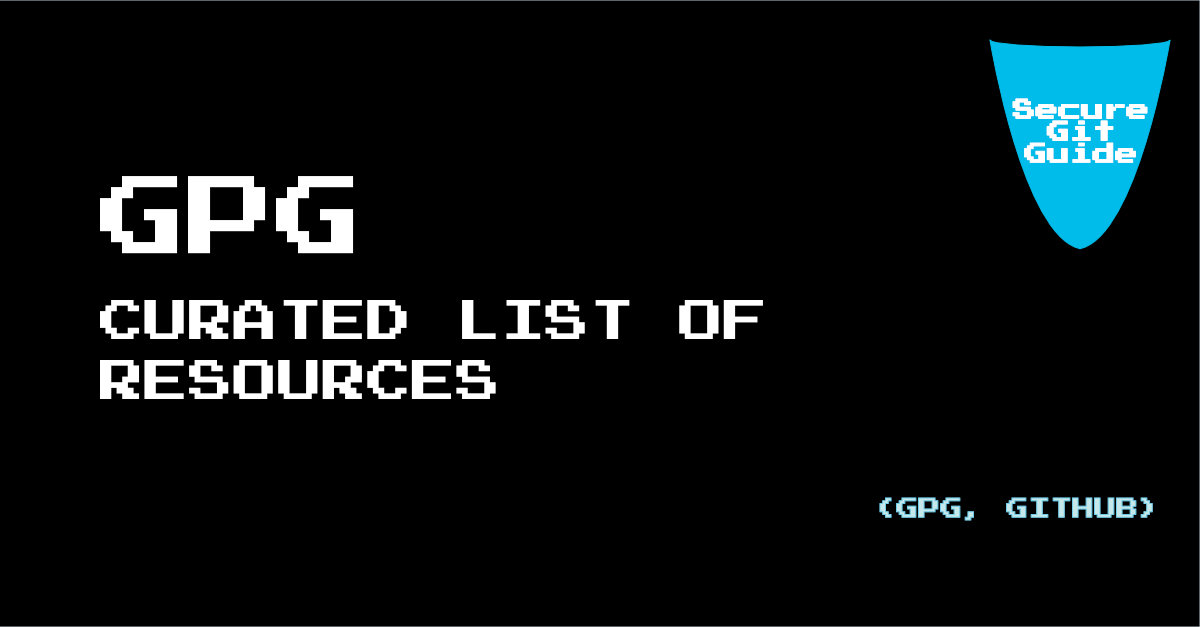
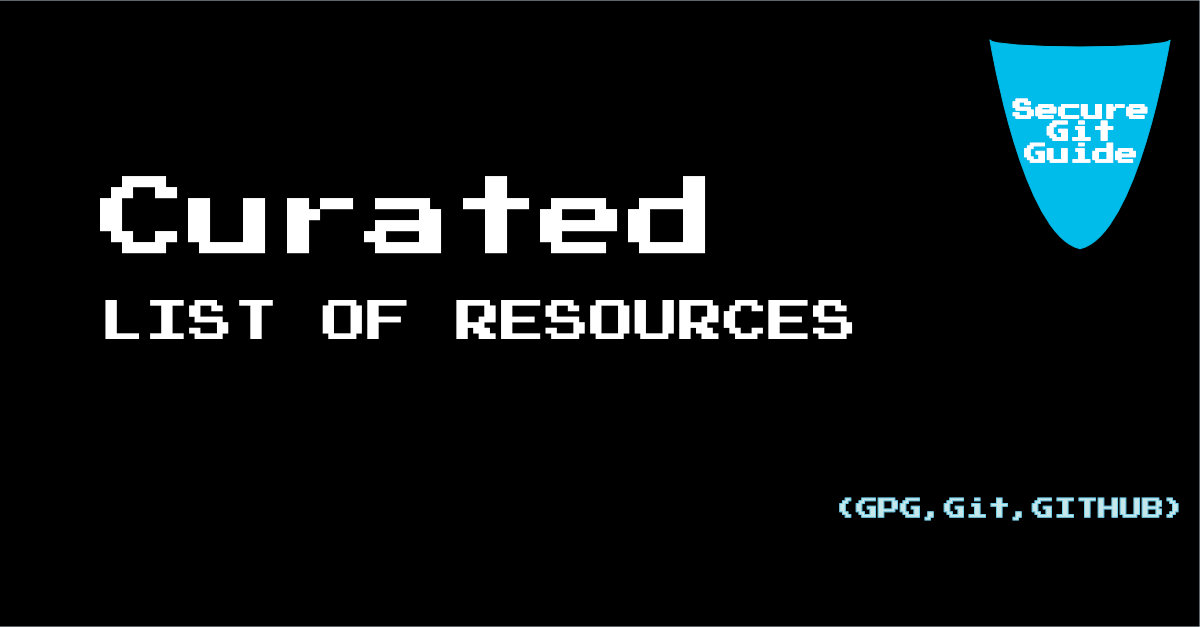
Type: Documentation
Added new resource sections and updated the article name for curated resources list.

diff --git a/docs/007_Curated-List-of-Resources.md b/docs/007_Curated-List-of-Resources.md
@@ -1,0 +1,105 @@
+# Curated List of Resources
+
+![HEADER IMAGE](./media/HEADER/GitHub-Repo-SecureGitGuide-ART-007.jpg)
+
+Index:
+
+- [GPG](#gpg)
+- [Git](#git)
+- [GitHub](#github)
+
+---
+
+## GPG
+
+---
+
+### Downloads & Installation (GPG)
+
+- <https://gnupg.org/>
+- <https://gpg4win.org/>
+- <https://linuxhint.com/gpg-command-ubuntu/>
+
+### Uses (GPG)
+
+- Git -- <https://docs.github.com/en/authentication/managing-commit-signature-verification/signing-commits>
+- GitHub -- <https://git-scm.com/book/en/v2/Git-Tools-Signing-Your-Work>
+- Email and other uses -- <https://www.openpgp.org/>
+- Various -- <https://gnupg.org/software/frontends.html>
+
+### Best Practices (GPG)
+
+- <https://github.com/josecelano/pygithub/blob/main/docs/how_to_create_a_subkey_for_signing.md>
+
+### Definition (GPG)
+
+- <https://en.wikipedia.org/wiki/GNU_Privacy_Guard>
+
+### Good Articles (GPG)
+
+- <https://blog.ghostinthemachines.com/2015/03/01/how-to-use-gpg-command-line/>
+
+---
+
+## Git
+
+---
+
+### Downloads & Installation (Git)
+
+- Official Site - <https://git-scm.com/downloads>
+
+### Best Practices (Git)
+
+- [7 Git Best Practices to Start using in your next Commit](https://sourcelevel.io/blog/7-git-best-practices-to-start-using-in-your-next-commit)
+
+### Definition (Git)
+
+- <https://en.wikipedia.org/wiki/Git>
+
+### Great Resource (Git)
+
+- [Git Magic Resource](http://www-cs-students.stanford.edu/~blynn/gitmagic/) (Very extensive and documented)  covers Git to some extent and focuses GitHub
+- [Awesome List of resources for Git and Github](https://project-awesome.org/phillipadsmith/awesome-github)
+
+### Books (Git)
+
+- [Official Git Pro eBook (free)](https://git-scm.com/book/en/v2)
+- [Git](https://www.amazon.com/-/en/Richard-Silverman/dp/1449325866/ref=sr_1_25?__mk_es_US=%C3%85M%C3%85%C5%BD%C3%95%C3%91&crid=WONZH23LUI7&keywords=github&qid=1655454291&sprefix=githu%2Caps%2C192&sr=8-25)
+
+---
+
+## GitHub
+
+---
+
+### Downloads & Installation (GitHub)
+
+GitHub is an online platform service so that in essence you do not need to install anything to start using it.
+
+- Official Online Site - <https://github.com/>
+
+- [GitHub Documentation](https://docs.github.com/en)
+
+### Best Practices (GitHub)
+
+- Good starter - [GitHub Best Practices (NC State)](https://docs.github.ncsu.edu/github-best-practices/)
+
+- [10 GitHub Best Practices](https://medium.com/datreeio/top-10-github-best-practices-for-developers-d6309a613227)
+
+- Some important concepts - [Best Practices for GitHub Repositories](https://www.codecademy.com/learn/paths/web-development/tracks/learn-git/modules/best-practices-for-teams-on-github/cheatsheet)
+
+### Definition (GitHub)
+
+- <https://en.wikipedia.org/wiki/GitHub>
+
+### Great Resource (GitHub)
+
+- [Git Magic Resource](http://www-cs-students.stanford.edu/~blynn/gitmagic/) (Very extensive and documented)  covers Git to some extent and focuses GitHub
+- [Awesome List of resources for Git and Github](https://project-awesome.org/phillipadsmith/awesome-github)
+
+### Books
+
+- [Git Essentials](https://www.amazon.com/GitHub-Essentials-collaborative-development-workflows/dp/1789138337/ref=sr_1_19?__mk_es_US=%C3%85M%C3%85%C5%BD%C3%95%C3%91&crid=WONZH23LUI7&keywords=github&qid=1655454439&sprefix=githu%2Caps%2C192&sr=8-19)
+
+[Back to home](./index.md)

diff --git a/docs/index.md b/docs/index.md
@@ -6,12 +6,12 @@
 ![Open Source](https://badgen.net/badge/Open%20Source/100%25/DA2CE7)
 ![Cool](https://badgen.net/badge/Cool/100%25/FF7F50)
 
-Here you will find information on how to use GIT securely in development work.
-This guide is the result of our team actively developing a pure GIT / GitHub infrastructure for repository optimization and automation during which we encountered security challenges.
 Here we attempt to help any developer to use GIT and GitHub more securely.
+Any challenges that we are facing in terms of security will be registered here.
+You will find information on how to use GIT securely in development work.
+This guide is the result of our team actively developing a pure GIT / GitHub infrastructure for repository optimization and automation during which we encountered security challenges.
 
-This is a website based on a WIP repository where we will be adding new things as we keep developing.
-Challenges that we are facing in terms of security will be registered here.
+This is a website based on a WIP repository where we will be adding new things as we keep developing. The contents takes two forms: articles and lists of resources.
 
 Topics that are covered among others:
 
@@ -29,7 +29,7 @@ Topics that are covered among others:
 - [How to use GPG with GIT and GitHub](./004_GPG-How-to-use-GPG-with-GIT-and-GitHub.md) (`gpg`,`github`)
 - [Best Practices](./005_GPG-Best-Practices.md) (`gpg`)
 - [Other Uses](./006_GPG-Other-Uses.md) (`gpg`)
-- [Curated List of Resources](./007_GPG-Curated-List-of-Resources.md) (`gpg`, `github`)
+
 - [How to create a subkey for signing](./008_GPG-How-to-create-a-subkey-for-signing.md) (`gpg`)
 - [How to use a signing key independently from the primary key](./009_GPG-How-to-use-a-signing-key-independently-from-primary-key.md) (`gpg`)
 - [Git commits partially verified](./010_GPG-Git-commits-partially-verified.md) (`gpg`, `github`)
@@ -37,6 +37,10 @@ Topics that are covered among others:
 - [How to import the dependabot GPG public key](./012_How-to-import-the-dependabot-gpg-public-key.md) (`gpg`, `github`)
 - [How GitHub Actions can get access to secrets](./013_How-github-actions-can-get-access-to-secrets.md) (`github`)
 - [Sharing GitHub secrets with third-party actions](./014_Sharing-GitHub-secrets-with-third-party-actions.md) (`github`, `gh-actions`)
+
+## Resources
+- [Curated List of Resources](./007_Curated-List-of-Resources.md) (`gpg`, `github`)
+
 
 ## Suggestions and Contact
 
